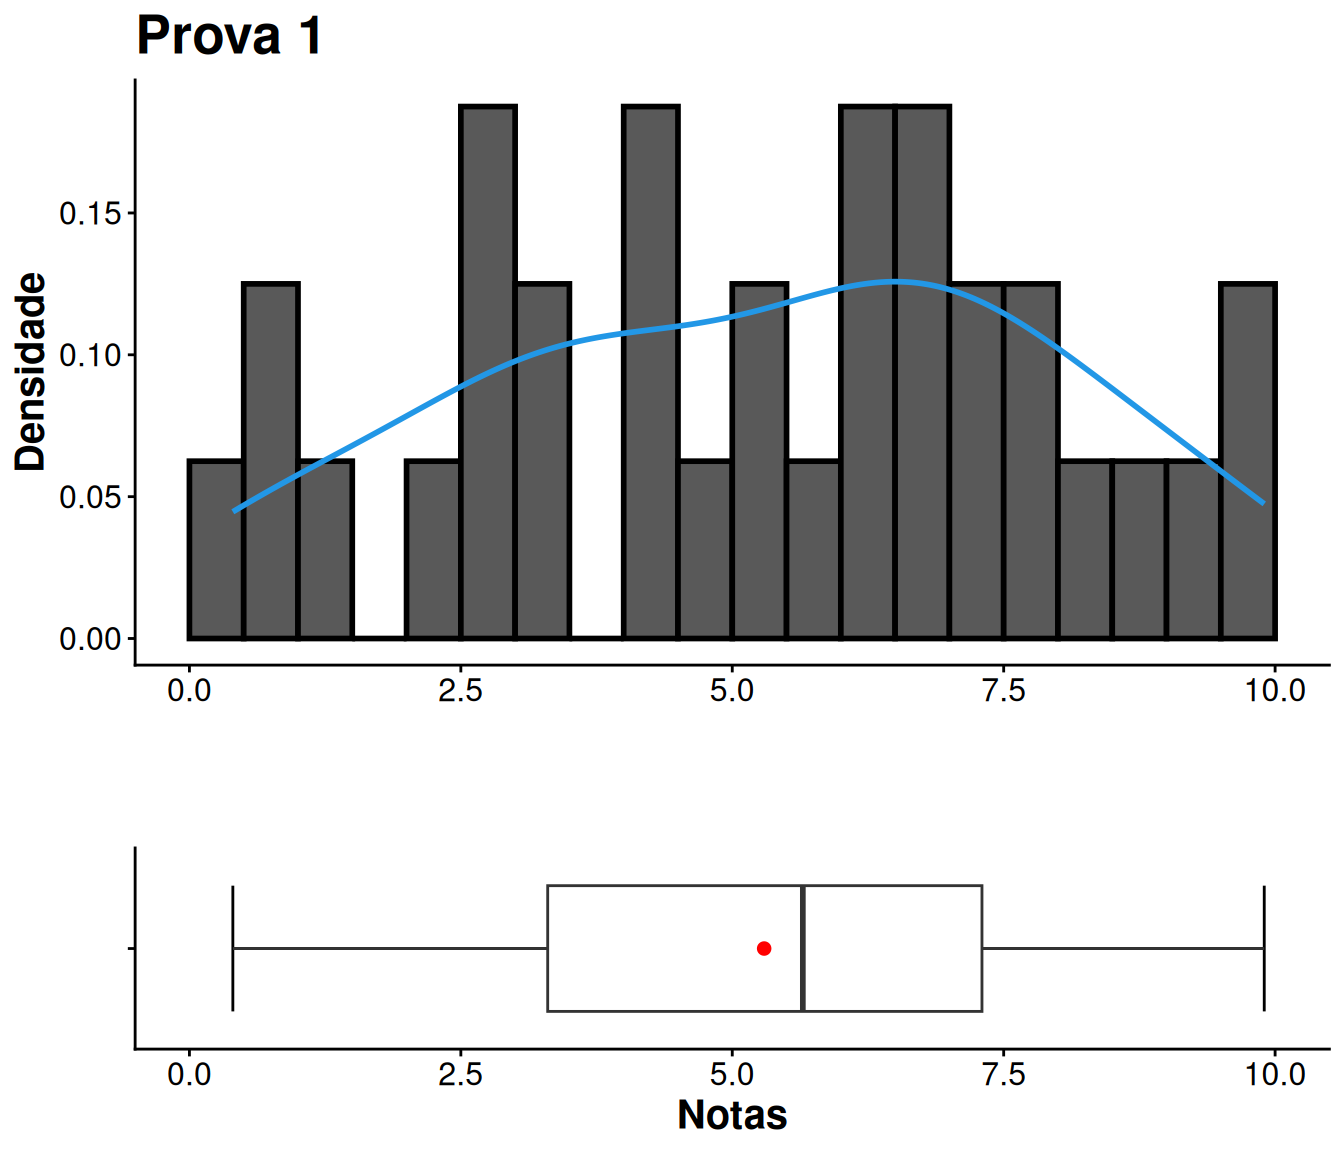
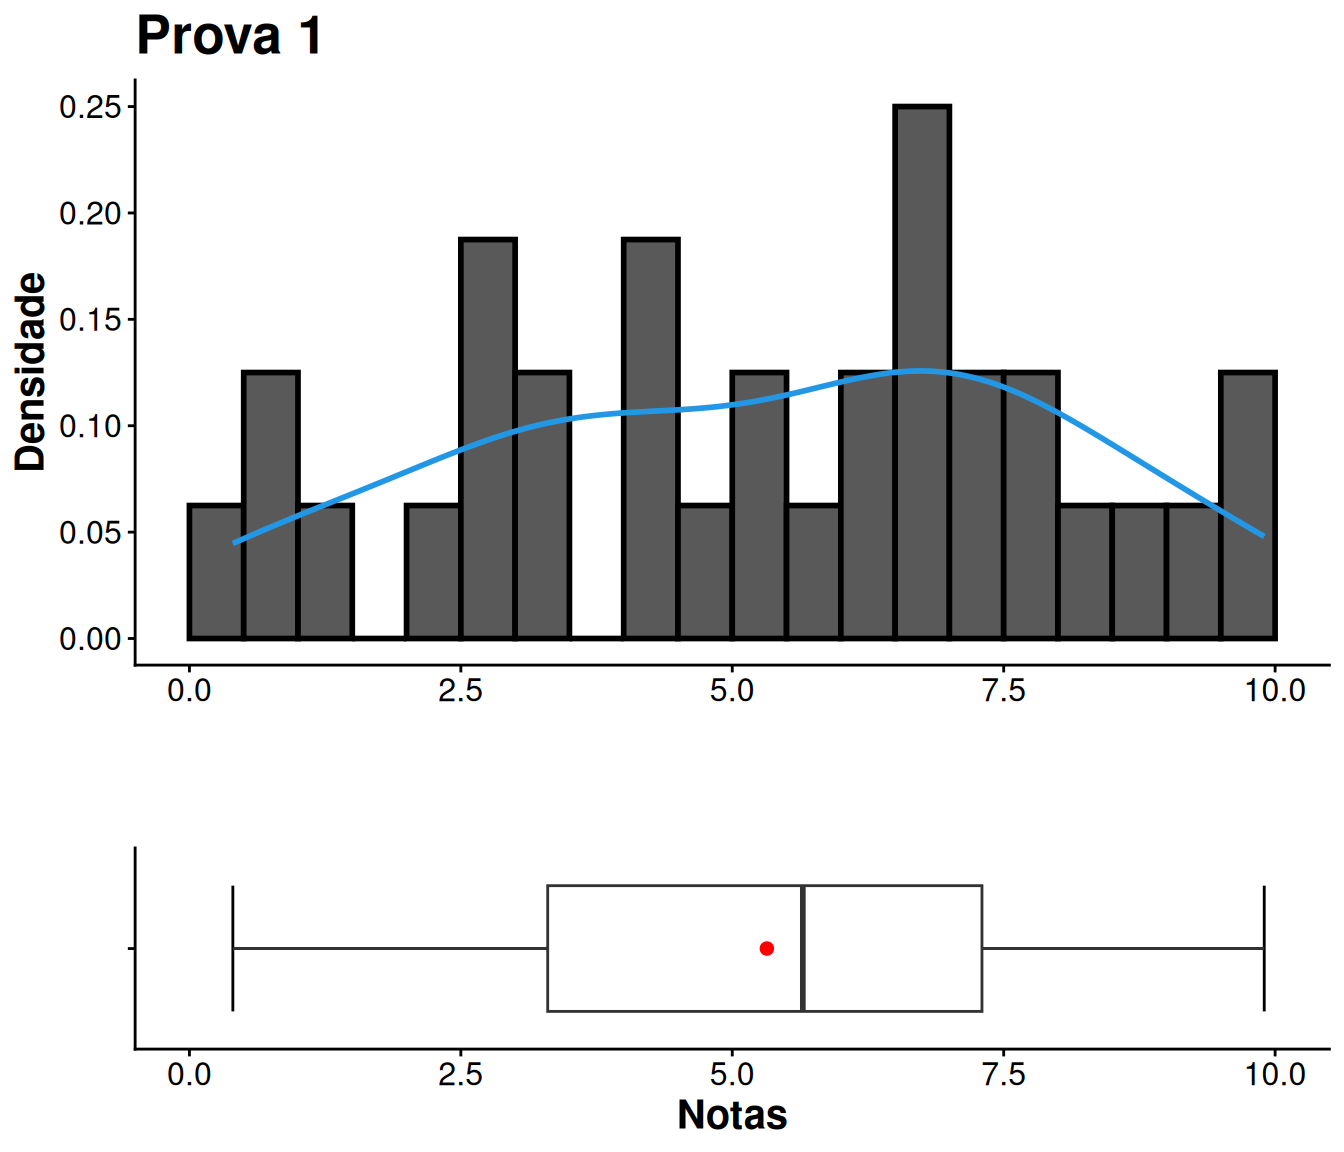
Atualizando arquivo de notas

diff --git a/notas.html b/notas.html
@@ -442,7 +442,7 @@ Shimakura</div></h3>
 </tr>
 <tr class="even">
 <td align="left">GRR20233624</td>
-<td align="right">6.2</td>
+<td align="right">7.0</td>
 <td align="right">2</td>
 </tr>
 <tr class="odd">
@@ -660,7 +660,7 @@ class="section level1 tabset tabset-fade tabset-pills">
 <td align="center">32</td>
 <td align="center">0.4</td>
 <td align="center">3.3</td>
-<td align="center">5.294</td>
+<td align="center">5.319</td>
 <td align="center">5.65</td>
 <td align="center">7.3</td>
 <td align="center">9.9</td>
@@ -683,8 +683,8 @@ class="section level1 tabset tabset-fade tabset-pills">
 <tbody>
 <tr class="odd">
 <td align="center">9.5</td>
-<td align="center">7.206</td>
-<td align="center">2.684</td>
+<td align="center">7.273</td>
+<td align="center">2.697</td>
 </tr>
 </tbody>
 </table>
@@ -1095,9 +1095,9 @@ class="section level1 tabset tabset-fade tabset-pills">
 <td align="center">41</td>
 <td align="center">0</td>
 <td align="center">0.2</td>
-<td align="center">1.376</td>
+<td align="center">1.38</td>
 <td align="center">1.4</td>
-<td align="center">2.2</td>
+<td align="center">2.3</td>
 <td align="center">3.3</td>
 </tr>
 </tbody>
@@ -1118,8 +1118,8 @@ class="section level1 tabset tabset-fade tabset-pills">
 <tbody>
 <tr class="odd">
 <td align="center">3.3</td>
-<td align="center">1.171</td>
-<td align="center">1.082</td>
+<td align="center">1.18</td>
+<td align="center">1.086</td>
 </tr>
 </tbody>
 </table>
